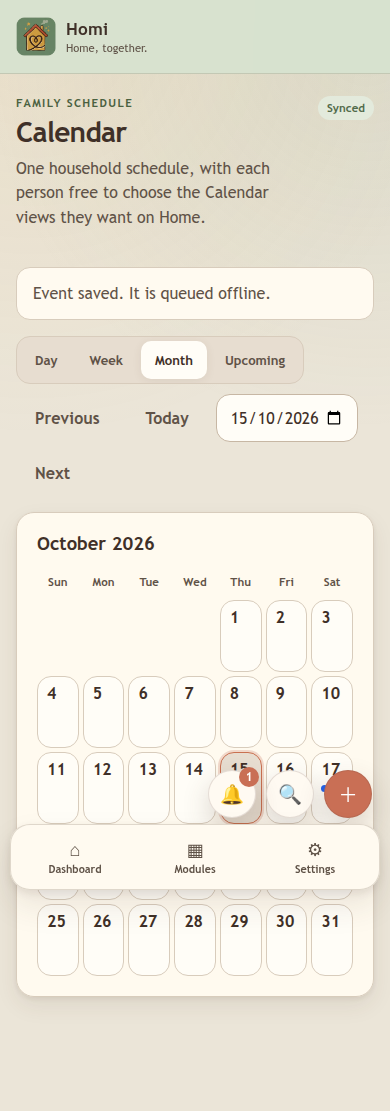
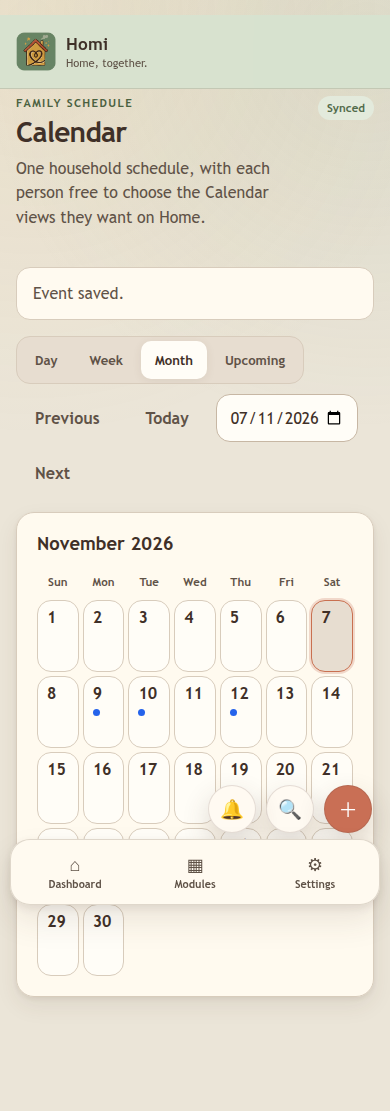
Record passing acceptance runs for Weather 0.1.5, Calendar 0.6.25 and Chequebook 0.1.31
Each module's multi-device acceptance suite ran against an isolated Homi stack on
the production images with the exact published package: Weather 14/14, Calendar
12/12, Chequebook 11/11. Adds the Weather acceptance suite and refreshes the
Calendar and Chequebook results and screenshots.

diff --git a/packages/weather/qa/README.md b/packages/weather/qa/README.md
@@ -1,0 +1,33 @@
+# Isolated Weather acceptance
+
+Run only against a dedicated localhost acceptance stack (never a real household), with Weather
+installed from the exact package under test, a fixture owner and a second fixture member, and
+invented data. Supply the fixture account file through `HOMI_TEST_CREDENTIALS`
+(`HOMI_BOOTSTRAP_EMAIL`, `HOMI_OWNER_PASSWORD`). Build the stack the way the other module
+acceptances do (see [New module workflow](../../../docs/NEW_MODULE_WORKFLOW.md#5-isolated-acceptance)):
+its own compose project name, volumes and loopback ports (3400 and 3401), the production Core and web
+images, `docker compose --profile maintenance run --rm migrate`, the `bootstrap` command, the second member
+added with an adapted copy of `packages/mealplanner/qa/seed-member.mjs` (run from `/app/apps/core` in a
+`module-admin` container so its packages resolve), and Weather installed with `module-admin install`.
+
+```sh
+HOMI_TEST_CREDENTIALS=... HOMI_TEST_PROFILES=<fresh dir> HOMI_QA_OUT=<output dir>/ HOMI_TEST_CHROME=/usr/bin/google-chrome \
+  node packages/weather/qa/acceptance.mjs
+```
+
+It uses three browser profiles (two devices of the owner and the second member; the owner's devices are
+given an invented position in a Toronto district, the second member none) and covers: the six Dashboard
+cards and their empty state; the Current card with a precise position, and with none (an approximate
+position, labelled as such); a place saved on one device reaching the other device and its cards in both
+directions; privacy (the second member sees no place, cannot read one by id and cannot delete one); choosing
+which place a card shows (a card holds one place at a time); the Celsius or Fahrenheit choice following the
+member and not another member; Core's Add; a full restart while offline (places and last forecast load,
+adding a place is disabled, changes queue and survive another restart); reconnect without conflicts; a stale
+offline edit surfaced for review with the shared version kept; layout at 390, 768 and 1440 px (no overflow,
+every card fills its box, no page errors); an axe pass (WCAG 2.0 and 2.1 A and AA) on nine screens including
+the add-a-place sheet, the settings sheet and the remove confirmation; and removing a place everywhere.
+`browser-acceptance.json` records the latest passing run.
+
+Not applicable: Core Search (Weather declares `search: false`) and a module upgrade (0.1.5 is the first
+published version). The outside weather services are real, so the test needs the stack's server to reach the
+internet; it asserts structure and labels, not weather values.
